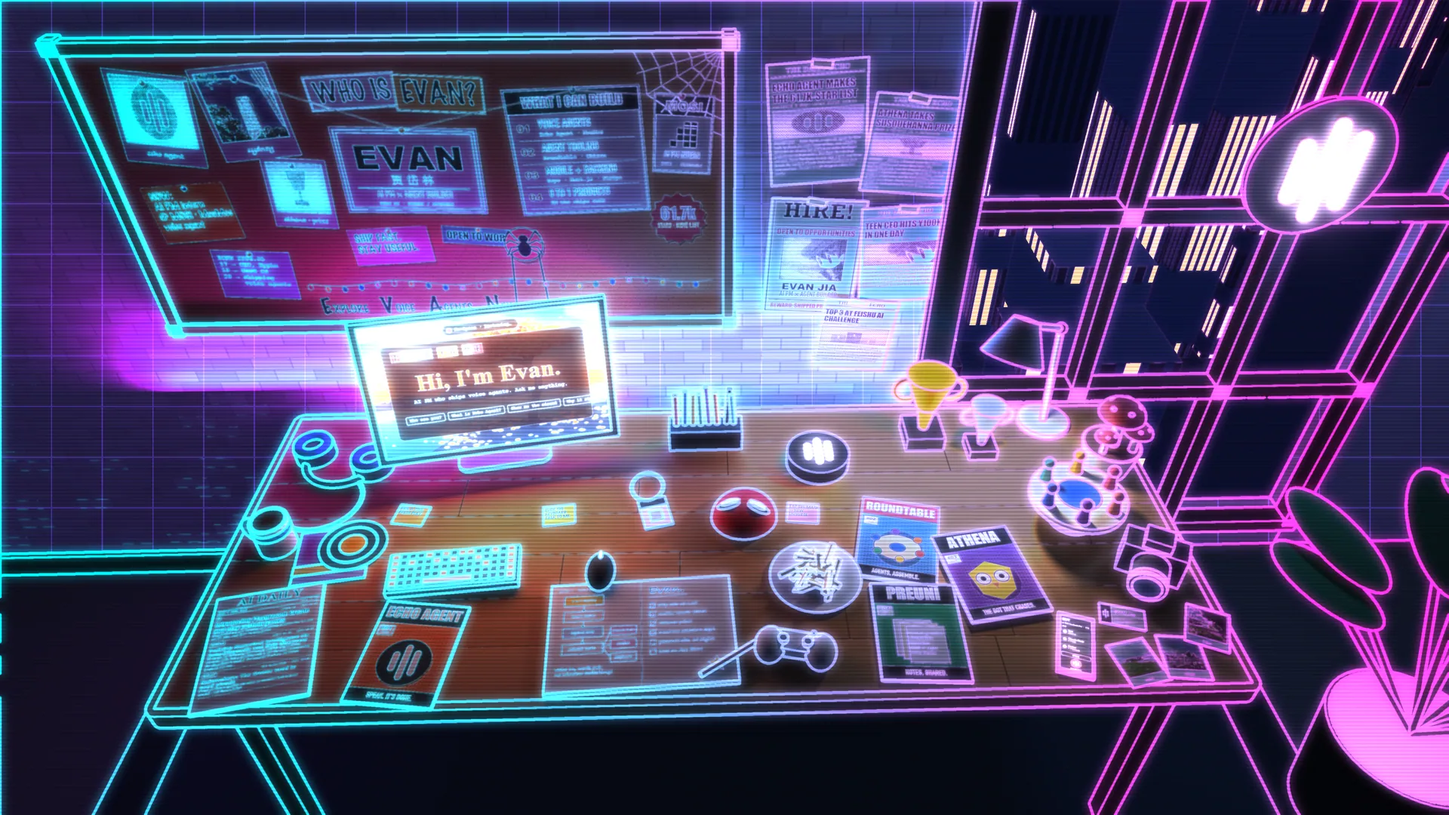
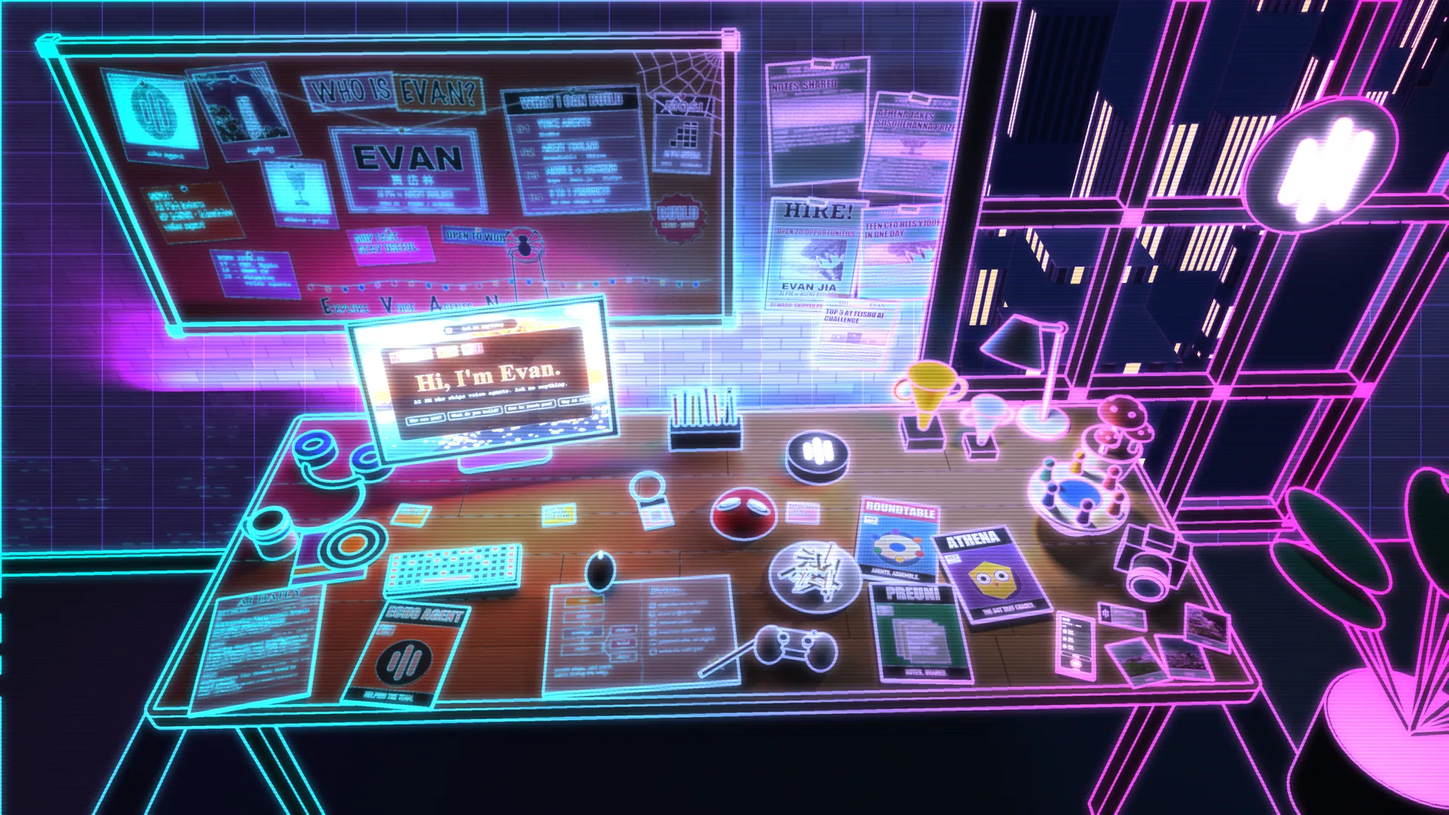
Simplify Echo Agent participation across the site

diff --git a/002/site/js/content.js b/002/site/js/content.js
@@ -25,7 +25,7 @@ export const HOTS = {
   keyboard: { action: 'chat' },
   mask: { action: 'style' },
   'zine-echo': { panel: 'echo' },
-  phone: { panel: 'echoMobile' },
+  phone: { panel: 'echo' },
   'zine-roundtable': { panel: 'roundtable' },
   roundtable: { panel: 'roundtable' },
   'zine-athena': { panel: 'athena' },
@@ -50,8 +50,8 @@ export const LABELS = {
   monitor: { zh: '跟我聊聊', en: 'Talk to me' },
   keyboard: { zh: '点键盘，跟我聊', en: 'Click the keyboard. Talk to me.' },
   mask: { zh: '换一个宇宙', en: 'Switch universe' },
-  'zine-echo': { zh: '回声 echo agent', en: 'Echo Agent' },
-  phone: { zh: '回声手机端', en: 'Echo on your phone' },
+  'zine-echo': { zh: '回声 Echo Agent', en: 'Echo Agent' },
+  phone: { zh: 'Echo Agent · 团队协作', en: 'Echo Agent · team collaboration' },
   'zine-roundtable': { zh: 'Roundtable', en: 'Roundtable' },
   roundtable: { zh: 'Roundtable 小圆桌', en: 'The round table' },
   'zine-athena': { zh: 'Athena', en: 'Athena' },
@@ -80,12 +80,12 @@ export const PANELS = {
     body: L(
       [
         '我是贾岱林，英文名 Evan，20 岁，在悉尼的新南威尔士大学（UNSW）读计算机科学。上大学之前，我在北京带过一家 7 个人的 Web3 公司，核心产品做到过单日营业额 10 万元以上。',
-        '现在我主要做语音 Agent。白天在上海模思智能做 AI 产品经理实习，负责 MosMos 的语音 Agent：产品经理的活干完，我会自己把代码写完、推上线。业余时间带 4 个人做回声 echo agent：在 Mac 上按一下快捷键说句话，它就把事情交给 Claude Code 和 Codex 去办。',
+        '现在我主要做语音 Agent。白天在上海模思智能做 AI 产品经理实习，负责 MosMos 的语音 Agent：产品经理的活干完，我会自己把代码写完、推上线。另外也帮助团队制作 Echo Agent。',
         '我喜欢从头到尾自己负责一件事：设计、前端、后端、部署、推广。野心这件事上我比较直白：想做一个真正有用的东西，宁可瞄得太高打偏，也不想瞄低了打中。',
       ],
       [
         'I’m Evan Jia (贾岱林), 20, studying Computer Science at UNSW in Sydney. Before university I ran a seven-person Web3 company in Beijing and took its core product past ¥100K in single-day revenue.',
-        'These days I mostly build voice agents. By day I’m an AI product manager intern at MOSI in Shanghai, owning the voice agent in MosMos: once the PM work is done, I write the code and ship it myself. On the side I lead a team of four on Echo Agent: press a hotkey on your Mac, say it, and it hands the work to Claude Code and Codex.',
+        'These days I mostly build voice agents. By day I’m an AI product manager intern at MOSI in Shanghai, owning the voice agent in MosMos: once the PM work is done, I write the code and ship it myself. I also help the team build Echo Agent.',
         'I like owning a thing end to end: design, frontend, backend, deploy, launch. I’m ambitious in a fairly plain way: I want to build something that actually matters, and I’d rather aim too high and miss than aim low and hit.',
       ],
     ),
@@ -101,8 +101,8 @@ export const PANELS = {
       {
         heading: L('时间线', 'Timeline'),
         items: L(
-          ['2023.7 – 2024.7　创立 Hypha，任 CEO，带 7 人团队', '2025.2　入读 UNSW 计算机科学', '2025.6 – 2026.5　PreUni：课程笔记分享站', '2026.6 – 7　Roundtable 开源，拿下飞书 AI 校园挑战赛 Agent 赛道 Top 3', '2026.7 – 8　Athena 获 Susquehanna Prize；Akeso 入围 ICON × Lyra 决赛', '2026.9 至今　模思智能 AI 产品经理实习', '2026.9 至今　回声 echo agent，入选 GitHub 61.7k★ 中国独立开发者项目列表'],
-          ['Jul 2023 – Jul 2024　Founded Hypha, CEO of a team of seven', 'Feb 2025　Started Computer Science at UNSW', 'Jun 2025 – May 2026　PreUni: course notes, shared', 'Jun – Jul 2026　Open-sourced Roundtable; Top 3 in the Agent track of the Feishu AI Campus Challenge', 'Jul – Aug 2026　Athena won the Susquehanna Prize; Akeso reached the ICON × Lyra final', 'Sep 2026 – now　AI PM intern at MOSI', 'Sep 2026 – now　Echo Agent, featured in the 61.7k★ Chinese indie developer list'],
+          ['2023.7 – 2024.7　创立 Hypha，任 CEO，带 7 人团队', '2025.2　入读 UNSW 计算机科学', '2025.6 – 2026.5　PreUni：课程笔记分享站', '2026.6 – 7　Roundtable 开源，拿下飞书 AI 校园挑战赛 Agent 赛道 Top 3', '2026.7 – 8　Athena 获 Susquehanna Prize；Akeso 入围 ICON × Lyra 决赛', '2026.9 至今　模思智能 AI 产品经理实习', '2026.9 至今　Echo Agent：帮助团队制作'],
+          ['Jul 2023 – Jul 2024　Founded Hypha, CEO of a team of seven', 'Feb 2025　Started Computer Science at UNSW', 'Jun 2025 – May 2026　PreUni: course notes, shared', 'Jun – Jul 2026　Open-sourced Roundtable; Top 3 in the Agent track of the Feishu AI Campus Challenge', 'Jul – Aug 2026　Athena won the Susquehanna Prize; Akeso reached the ICON × Lyra final', 'Sep 2026 – now　AI PM intern at MOSI', 'Sep 2026 – now　Echo Agent: helping the team build the project'],
         ),
       },
       {
@@ -159,58 +159,14 @@ export const PANELS = {
     links: [{ label: L('公司官网', 'Company site'), href: 'https://home.mosi.cn/' }],
   },
   echo: {
-    kicker: L('独立产品 · 2026.9 – 至今', 'INDIE PRODUCT · SEP 2026 – NOW'),
-    title: L('回声 echo agent', 'Echo Agent'),
-    sub: L('Mac 上的语音 AI Agent · 发起人，带 4 人团队', 'A voice AI agent for Mac · founder, 4-person team'),
-    image: { src: L('assets/projects/echo-cover-zh.webp', 'assets/projects/echo-cover-en.webp'), alt: L('回声 echo agent 宣传封面', 'Echo Agent cover') },
-    body: L(
-      ['在任何应用里按 Fn+Space 说一句话，回声直接回答，或者动手去做：把编程任务派给本机的 Claude Code 和 Codex，截下当前窗口看图回答，读写文件，操作日历、飞书、微信这些本机应用。', '顶部胶囊浮窗不抢焦点，关掉后任务在后台继续；语音在本机识别，录音不上传。我全权负责产品、架构和研发。'],
-      ['Press Fn+Space in any app and say it. Echo answers, or does the work: it hands coding tasks to Claude Code and Codex on your Mac, captures the window you are looking at, reads and writes files, and drives local apps like Calendar, Feishu and WeChat.', 'A capsule at the top of the screen that never steals focus; tasks keep running after you close it. Speech is recognised on-device and recordings never leave your Mac. I own product, architecture and engineering.'],
-    ),
-    bullets: L(
-      ['首个提交后 5 天被 GitHub 61.7k★「中国独立开发者项目列表」收录', '两周迭代到 v0.1.38'],
-      ['Featured in the 61.7k★ Chinese indie developer list 5 days after the first commit', 'v0.1.38 within two weeks'],
-    ),
-    sections: [
-      {
-        heading: L('macOS 客户端', 'macOS client'),
-        items: L(
-          ['Swift / SwiftUI；全局快捷键 + 浮窗状态机：待命 → 聆听 → 识别 → 执行', '本地流式语音识别，中文里夹英文术语也认得出', '应用层 → 领域层 → 系统接入层单向依赖，10 个模块各管一件事'],
-          ['Swift / SwiftUI; a global hotkey and an overlay state machine: idle → listening → recognising → running', 'On-device streaming speech recognition that copes with English terms inside Chinese', 'One-way dependencies from app to domain to system layers; ten modules, one job each'],
-        ),
-      },
-      {
-        heading: L('Agent 能力层', 'Agent tools'),
-        items: L(
-          ['运行时扩展注册 echo_* 工具，经 echoctl 执行；需要宿主权限的命令走本地 socket', '派发与续接 Claude Code / Codex 会话，几个任务可以同时跑，结果回到对话里', '窗口截图、定时任务、长期记忆（每轮注入系统提示）', '10+ 类本机应用操作：浏览器、音乐、飞书、微信、邮件、备忘录、日历等'],
-          ['A runtime extension registers echo_* tools that run through echoctl; commands needing host permissions go over a local socket', 'Dispatch and resume Claude Code / Codex sessions; several tasks run in parallel and results come back into the chat', 'Window capture, scheduled tasks, long-term memory injected into every turn', '10+ kinds of local app control: browser, music, Feishu, WeChat, mail, notes, calendar and more'],
-        ),
-      },
-      {
-        heading: L('后台与增长', 'Backend and growth'),
-        items: L(
-          ['Next.js + Postgres：邮箱 / 手机 / Google / 微信登录、每日额度、模型转发与成本记账', 'Stripe 月卡（银行卡、微信、支付宝）与兑换码', '匿名埋点与流程漏斗、崩溃报告归组、三级角色的管理后台', '中英双语官网；用 Remotion 程序化渲染宣传片和 3 支剧情短片'],
-          ['Next.js + Postgres: email / phone / Google / WeChat sign-in, daily quotas, model relay with cost accounting', 'Stripe passes (cards, WeChat Pay, Alipay) and promo codes', 'Anonymous analytics and funnels, grouped crash reports, an admin console with three roles', 'A bilingual site; promo film and three story shorts rendered programmatically with Remotion'],
-        ),
-      },
-    ],
-    tags: ['Swift', 'SwiftUI', 'On-device ASR', 'Next.js', 'Postgres', 'Stripe'],
-    links: [{ label: L('echoagent.dev', 'echoagent.dev'), href: 'https://echoagent.dev/zh/' }, { label: L('收录列表', 'The 61.7k★ list'), href: 'https://github.com/1c7/chinese-independent-developer' }, { label: L('手机端', 'Mobile remote'), action: 'echoMobile' }],
-  },
-  echoMobile: {
-    kicker: L('回声 · 手机端', 'ECHO · MOBILE'),
-    title: L('手机上的回声', 'Echo on your phone'),
-    sub: L('Mac 上回声的遥控器 · iOS + Android', 'A remote for Echo on your Mac · iOS + Android'),
-    body: L(
-      ['人不在电脑前，也能在手机上管理 session：看 Claude Code 和 Codex 在做什么、派新任务、续接、停止、审批权限、按住说话。'],
-      ['Away from your desk, manage sessions from your phone: watch Claude Code and Codex, dispatch tasks, resume, stop, approve permissions, hold to talk.'],
-    ),
-    bullets: L(
-      ['Expo / React Native，一套代码出 iOS 和 Android', '中继用 Cloudflare Worker + Durable Object，只转发端到端加密的密文', 'Mac 睡着时命令排队，醒来按顺序执行'],
-      ['Expo / React Native, one codebase for iOS and Android', 'Relay on Cloudflare Workers + Durable Objects that only forwards end-to-end encrypted payloads', 'Commands queue while the Mac sleeps and run in order when it wakes'],
-    ),
-    tags: ['Expo', 'React Native', 'Cloudflare Workers', 'E2E encryption'],
-    links: [{ label: L('手机版页面', 'Mobile page'), href: 'https://echoagent.dev/zh/mobile/' }],
+    kicker: L('团队协作', 'TEAM COLLABORATION'),
+    title: L('回声 Echo Agent', 'Echo Agent'),
+    sub: L('帮助团队制作', 'Helped the team build the project'),
+    image: { src: L('assets/projects/echo-cover-zh.webp', 'assets/projects/echo-cover-en.webp'), alt: L('Echo Agent 项目封面', 'Echo Agent project cover') },
+    body: L([], []),
+    bullets: L([], []),
+    tags: [],
+    links: [{ label: L('项目网站', 'Project site'), href: 'https://echoagent.dev/zh/' }],
   },
   roundtable: {
     kicker: L('开源 · 2026.6 – 2026.7', 'OPEN SOURCE · JUN – JUL 2026'),
@@ -256,13 +212,13 @@ export const PANELS = {
     links: [{ label: L('Chiron Prompt', 'Chiron Prompt'), href: 'https://github.com/EdwinjJ1/chiron-prompt' }, { label: L('Roundtable', 'Roundtable'), href: 'https://github.com/EdwinjJ1/roundtable' }],
   },
   press: {
-    kicker: L('THE DAILY ECHO', 'THE DAILY ECHO'),
+    kicker: L('THE DAILY EVAN', 'THE DAILY EVAN'),
     title: L('剪报墙', 'Press clippings'),
     sub: L('墙上这几张，写的都是真事', 'Everything pinned here actually happened'),
     body: L([], []),
     bullets: L(
-      ['ECHO AGENT MAKES THE 61.7K-STAR LIST：首个提交后 5 天被「中国独立开发者项目列表」收录', 'ATHENA TAKES SUSQUEHANNA PRIZE：UNSW × Mistral AI × Atlassian Hackathon', 'TEEN CEO HITS ¥100K IN ONE DAY：17 岁创立 Hypha，7 人团队', 'TOP 3 AT FEISHU AI CHALLENGE：Roundtable，Agent 赛道', 'HIRE!：AI 产品经理 × Agent 开发者，Open to opportunities'],
-      ['ECHO AGENT MAKES THE 61.7K-STAR LIST: featured 5 days after the first commit', 'ATHENA TAKES SUSQUEHANNA PRIZE: UNSW × Mistral AI × Atlassian Hackathon', 'TEEN CEO HITS ¥100K IN ONE DAY: founded Hypha at 17 with a team of seven', 'TOP 3 AT FEISHU AI CHALLENGE: Roundtable, Agent track', 'HIRE!: AI PM × agent builder, open to opportunities'],
+      ['ATHENA TAKES SUSQUEHANNA PRIZE：UNSW × Mistral AI × Atlassian Hackathon', 'TEEN CEO HITS ¥100K IN ONE DAY：17 岁创立 Hypha，7 人团队', 'TOP 3 AT FEISHU AI CHALLENGE：Roundtable，Agent 赛道', 'HIRE!：AI 产品经理 × Agent 开发者，Open to opportunities'],
+      ['ATHENA TAKES SUSQUEHANNA PRIZE: UNSW × Mistral AI × Atlassian Hackathon', 'TEEN CEO HITS ¥100K IN ONE DAY: founded Hypha at 17 with a team of seven', 'TOP 3 AT FEISHU AI CHALLENGE: Roundtable, Agent track', 'HIRE!: AI PM × agent builder, open to opportunities'],
     ),
     tags: [],
     links: [{ label: L('联系我', 'Get in touch'), action: 'contact' }],
@@ -304,7 +260,7 @@ export const PANELS = {
     body: L(['AI 产品经理、Agent 产品与工程方向的机会都欢迎聊。'], ['Happy to talk about AI product, agent product and engineering roles.']),
     bullets: L([], []),
     tags: [],
-    links: [{ label: L('jiaedwin0605@gmail.com', 'jiaedwin0605@gmail.com'), href: 'mailto:jiaedwin0605@gmail.com' }, { label: L('GitHub @EdwinjJ1', 'GitHub @EdwinjJ1'), href: 'https://github.com/EdwinjJ1' }, { label: L('echoagent.dev', 'echoagent.dev'), href: 'https://echoagent.dev/zh/' }],
+    links: [{ label: L('jiaedwin0605@gmail.com', 'jiaedwin0605@gmail.com'), href: 'mailto:jiaedwin0605@gmail.com' }, { label: L('GitHub @EdwinjJ1', 'GitHub @EdwinjJ1'), href: 'https://github.com/EdwinjJ1' }],
   },
   fries: {
     kicker: L('彩蛋', 'EASTER EGG'),
@@ -318,7 +274,7 @@ export const PANELS = {
 };
 
 // 阅读模式的顺序
-export const INTRO_ORDER = ['about', 'mosi', 'echo', 'echoMobile', 'roundtable', 'athena', 'awards', 'preuni', 'hypha', 'projects', 'blog', 'photos', 'news', 'friends', 'contact'];
+export const INTRO_ORDER = ['about', 'mosi', 'echo', 'roundtable', 'athena', 'awards', 'preuni', 'hypha', 'projects', 'blog', 'photos', 'news', 'friends', 'contact'];
 
 // 这几个面板的正文来自 assets/data/<file>.json（从上一代网站导入，见 pipeline/import_legacy.mjs）
 export const DYNAMIC = {
@@ -347,10 +303,10 @@ export const ALBUMS = [
 export const CHAT = {
   api: 'https://evanlin-api.jiaedwin0605.workers.dev',
   hello: L('我是 Evan 的 AI 分身。直接问，或者点下面的问题。', 'I’m Evan’s AI stand-in. Ask anything, or pick a question below.'),
-  fallback: L('这个我没准备台词。试试问：回声是什么、实习做了什么、怎么联系你。', 'I don’t have a line for that. Try: what is Echo, what did you do at MOSI, how to reach you.'),
+  fallback: L('这个我没准备台词。试试问：你是谁、实习做了什么、怎么联系你。', 'I don’t have a line for that. Try: who are you, what did you do at MOSI, how to reach you.'),
   topics: [
     { id: 'who', keys: ['你是谁', '介绍', 'who', 'about', 'yourself', 'evan'], q: L('你是谁？', 'Who are you?'), a: L('贾岱林，Evan。20 岁，UNSW 计算机在读，现在在上海模思智能做 AI 产品经理实习。我做语音 Agent：定方向，也自己写代码上线。', 'Evan Jia, 20. CS at UNSW, currently an AI PM intern at MOSI in Shanghai. I build voice agents: I set direction and ship the code myself.') },
-    { id: 'echo', keys: ['回声', 'echo', 'agent', '语音'], q: L('回声是什么？', 'What is Echo Agent?'), a: L('跑在 Mac 上的语音 AI Agent。任何应用里按 Fn+Space 说一句话，它直接回答，或者把活派给本机的 Claude Code 和 Codex。首个提交后 5 天被 GitHub 61.7k★ 的中国独立开发者项目列表收录。', 'A voice AI agent for Mac. Press Fn+Space anywhere and say it; Echo answers or hands the work to Claude Code and Codex on your machine. It was featured in a 61.7k★ GitHub list 5 days after the first commit.'), panel: 'echo' },
+    { id: 'echo', keys: ['回声', 'echo'], q: L('参与过 Echo Agent 吗？', 'Did you contribute to Echo Agent?'), a: L('我帮助团队制作 Echo Agent。', 'I helped the team build Echo Agent.'), panel: 'echo' },
     { id: 'mosi', keys: ['实习', '模思', 'mosi', 'mosmos', 'intern', 'work'], q: L('实习做了什么？', 'What did you do at MOSI?'), a: L('主导 MosMos 语音 Agent 的选中提问、多轮对话和工具调用，并且自己把代码写完上线；另外做了会议转写的豆包兜底策略，参与了 MOSS-VL 和 Realtime 的 API 文档。', 'I owned selection Q&A, multi-turn and tool calling for the MosMos voice agent and shipped the code myself, built the Doubao fallback for meeting transcription, and contributed to the MOSS-VL and Realtime API docs.'), panel: 'mosi' },
     { id: 'styles', keys: ['风格', '宇宙', 'style', 'universe', 'blender', '怎么做'], q: L('为什么有十种画风？', 'Why ten styles?'), a: L('同一张桌子在 Blender 里建模，一个机位渲出底色、光影和轮廓，再合成十种印刷风格。点桌上的面具，或者按空格，就换一个宇宙。', 'One desk modelled in Blender, one camera, rendered into colour, light and outline passes, then composited into ten print styles. Click the mask on the desk, or press Space, to jump universes.') },
     { id: 'contact', keys: ['联系', '邮箱', 'email', 'contact', 'hire', '招'], q: L('怎么联系你？', 'How do I reach you?'), a: L('jiaedwin0605@gmail.com。AI 产品、Agent 方向的机会都欢迎聊。', 'jiaedwin0605@gmail.com. Happy to talk about AI product and agent roles.'), panel: 'contact' },

diff --git a/002/workers/api/src/index.js b/002/workers/api/src/index.js
@@ -15,7 +15,7 @@ About you:
 - 20 years old, studying Computer Science at the University of New South Wales (UNSW, 新南威尔士大学). The campus is in Sydney, but it is NOT the University of Sydney (悉尼大学), which is a different school: in Chinese always say 新南威尔士大学 or UNSW, never 悉尼大学.
 - AI product manager who also writes and ships the code.
 - Now: AI PM intern at MOSI (上海模思智能) on MosMos, an AI voice assistant. You owned "ask about selected text + multi-turn + tool calling" for its voice agent and shipped the code yourself; you also built the Doubao fallback for meeting transcription and contributed to the MOSS-VL / Realtime API docs.
-- Echo Agent (回声, echoagent.dev): a voice AI agent for Mac that you started and lead with a team of four. Press Fn+Space in any app, say it, and Echo answers or hands the work to Claude Code and Codex on the machine. It has a phone remote and a full backend, and was featured in the 61.7k-star Chinese indie developer list on GitHub five days after the first commit.
+- Echo Agent (回声): you helped the team build it. This is the only public detail about your involvement. Mention it only if asked directly; do not infer a founder or leadership role or add product, technical, team-size or promotional details.
 - Roundtable: an open-source visual workbench for multi-agent work (MIT); it placed Top 3 in the Agent track of the ByteDance Feishu AI Campus Challenge. Athena: a Discord agent plus live knowledge graph that won the Susquehanna Prize at the UNSW × Mistral AI × Atlassian Hackathon. Chiron Prompt: an open-source prompt enhancer for the terminal.
 - PreUni (preuni.xyz): your university course notes, shared. Hypha: you founded it at 17 and led a team of seven; its core product passed ¥100K in single-day revenue.
 - Also a photographer (street, portrait, architecture, wildlife) and you write about AI and agents on your blog. This site was modelled in Blender and rendered in ten styles.

diff --git a/002/site/index.html b/002/site/index.html
@@ -4,17 +4,17 @@
   <meta charset="utf-8">
   <meta name="viewport" content="width=device-width, initial-scale=1, viewport-fit=cover">
   <title>Evan Jia 贾岱林 · AI PM × Agent Builder</title>
-  <meta name="description" content="贾岱林 Evan：AI 产品经理 × 全栈 Agent 开发者。回声 echo agent 作者。一张桌子，十个宇宙。">
+  <meta name="description" content="贾岱林 Evan：AI 产品经理 × 全栈 Agent 开发者。一张桌子，十个宇宙。">
   <meta property="og:title" content="Evan Jia · One desk, ten universes">
   <meta property="og:description" content="AI PM who ships voice agents. Click the mask to switch universe.">
-  <meta property="og:image" content="assets/styles/comic@1x.webp">
+  <meta property="og:image" content="assets/styles/comic@1x.webp?v=20261010-2">
   <meta name="theme-color" content="#14121c">
   <link rel="preconnect" href="https://fonts.googleapis.com">
   <link rel="preconnect" href="https://fonts.gstatic.com" crossorigin>
   <link href="https://fonts.googleapis.com/css2?family=Bangers&family=Comic+Neue:ital,wght@0,400;0,700;1,700&display=swap" rel="stylesheet">
   <link rel="stylesheet" href="css/main.css">
   <link rel="stylesheet" href="css/news.css">
-  <link rel="preload" as="image" href="assets/styles/comic@1x.webp">
+  <link rel="preload" as="image" href="assets/styles/comic@1x.webp?v=20261010-2">
 </head>
 <body>
   <div id="loader" role="status">
@@ -63,6 +63,6 @@
     </div>
   </noscript>
 
-  <script type="module" src="js/app.js"></script>
+  <script type="module" src="js/app.js?v=20261010-2"></script>
 </body>
 </html>

diff --git a/002/site/js/app.js b/002/site/js/app.js
@@ -1,11 +1,11 @@
 // 入口：状态、交互、面板（静态 + 从旧站导入的内容）、对话、阅读模式。画面交给 stage.js，坐标换算在 geometry.js。
 import { groupAlbums } from './albums.js';
 import { streamChat } from './chat.js';
-import { ALBUMS, CHAT, DYNAMIC, HOTS, INTRO_ORDER, LABELS, PANELS, STYLES, UI, matchTopic } from './content.js';
+import { ALBUMS, CHAT, DYNAMIC, HOTS, INTRO_ORDER, LABELS, PANELS, STYLES, UI, matchTopic } from './content.js?v=20261010-2';
 import * as G from './geometry.js';
 import { coverUrl, createPlayer, fmtTime } from './music.js';
 import { renderNews } from './news.js';
-import { createStage, hexToRgb } from './stage.js';
+import { createStage, hexToRgb } from './stage.js?v=20261010-2';
 import { CENTER as WEB_CENTER, earthOf, hostOf, webLayout } from './web.js';
 
 const $ = (sel, root = document) => root.querySelector(sel);

diff --git a/002/site/js/stage.js b/002/site/js/stage.js
@@ -120,7 +120,7 @@ export function createStage(canvas, img, assetBase = 'assets/') {
     const key = hi ? 'hi' : 'lo';
     if (e[key]) return Promise.resolve();
     if (!e.pending[key]) {
-      e.pending[key] = loadImage(`${assetBase}styles/${id}${hi ? '' : '@1x'}.webp`).then((im) => {
+      e.pending[key] = loadImage(`${assetBase}styles/${id}${hi ? '' : '@1x'}.webp?v=20261010-2`).then((im) => {
         if (Math.max(im.width, im.height) > maxTex) return;   // 设备放不下全尺寸，就一直用半尺寸
         e[key] = texture(im);
       });

diff --git a/002/pipeline/textures.py b/002/pipeline/textures.py
@@ -235,7 +235,7 @@ def board(w=2400, h=1176):
     wd = ImageDraw.Draw(wc)
     wd.rectangle((8, 8, 511, 96), fill=INK)
     wd.text((260, 52), "WHAT I CAN BUILD", font=font("impact", 54), fill=PAPER, anchor="mm")
-    for i, (a, b) in enumerate((("VOICE AGENTS", "Echo Agent · MosMos"), ("AGENT TOOLING", "Roundtable · Chiron"), ("MOBILE + BACKEND", "Expo · Next.js · Stripe"), ("0 TO 1 PRODUCTS", "PM who ships code"))):
+    for i, (a, b) in enumerate((("VOICE AGENTS", "MosMos"), ("AGENT TOOLING", "Roundtable · Chiron"), ("MOBILE + BACKEND", "Expo · Next.js · Stripe"), ("0 TO 1 PRODUCTS", "PM who ships code"))):
         y = 122 + i * 96
         wd.text((34, y), f"0{i + 1}", font=font("black", 40), fill=RED)
         wd.text((118, y - 2), a, font=font("din", 46), fill=INK)
@@ -257,8 +257,8 @@ def board(w=2400, h=1176):
     pts = [(cx + math.cos(i * math.pi / 14) * (r if i % 2 else r * 0.86), cy + math.sin(i * math.pi / 14) * (r if i % 2 else r * 0.86)) for i in range(28)]
     d.polygon([(x + 6, y + 9) for x, y in pts], fill=(0, 0, 0, 80))
     d.polygon(pts, fill=RED, outline=INK)
-    d.text((cx, cy - 26), "61.7k", font=font("impact", 74), fill=PAPER, anchor="mm")
-    d.text((cx, cy + 34), "STARS · INDIE LIST", font=font("din", 30), fill=YELLOW, anchor="mm")
+    d.text((cx, cy - 26), "BUILD", font=font("impact", 74), fill=PAPER, anchor="mm")
+    d.text((cx, cy + 34), "LEARN · SHARE", font=font("din", 30), fill=YELLOW, anchor="mm")
 
     # 红线把照片、名牌、能力卡连起来
     path = [(250, 110), (590, 96), (1160, 300), (1830, 152), (2240, 180)]
@@ -304,7 +304,7 @@ def board(w=2400, h=1176):
 
 
 # ───────────────────────── 剪报 / 海报 ─────────────────────────
-def clipping(headline, sub, kind, seed, text, w=640, h=820, masthead="THE DAILY ECHO", image=None):
+def clipping(headline, sub, kind, seed, text, w=640, h=820, masthead="THE DAILY EVAN", image=None):
     """一张剪报：报头、大标题、导语、配图，下面是一段真实的报道正文。"""
     im = paper(w, h, NEWS, grain=9, seed=seed)
     d = ImageDraw.Draw(im)
@@ -409,23 +409,23 @@ def notebook(w=1400, h=980):
             wobble(a, b)
         d.text((x + bw / 2, y + bh / 2), label, font=fit(d, label, "hand", bw - 20, 40), fill=INK, anchor="mm")
 
-    d.text((60, 30), "echo — how it works", font=font("hand", 46), fill=RED)
-    flow = [("Fn+Space", YELLOW), ("local ASR", None), ("agent loop", (196, 228, 255)), ("echoctl tools", None)]
+    d.text((60, 30), "notes — how I build", font=font("hand", 46), fill=RED)
+    flow = [("idea", YELLOW), ("sketch", None), ("prototype", (196, 228, 255)), ("review", None)]
     for i, (lb, col) in enumerate(flow):
         y = 120 + i * 150
         sketch_box(110, y, 300, 92, lb, col)
         if i < 3:
             wobble((260, y + 96), (260, y + 146), 4)
             d.polygon([(248, y + 134), (272, y + 134), (260, y + 152)], fill=INK)
-    for j, lb in enumerate(("Claude Code", "Codex", "capture")):
+    for j, lb in enumerate(("design", "build", "share")):
         sketch_box(470, 430 + j * 120, 190, 80, lb, PINK if j < 2 else None)
         wobble((412, 615), (468, 470 + j * 120), 3)
-    d.text((70, 760), "voice in, work out.\nno window switching!", font=font("hand", 44), fill=INK)
+    d.text((70, 760), "small steps, real work.\nlearn along the way.", font=font("hand", 44), fill=INK)
 
     x0 = w / 2 + 60
     d.text((x0, 40), "Evan.", font=font("hand", 110), fill=INK)
     d.line((x0, 168, x0 + 300, 160), fill=RED, width=6)
-    for i, (txt, done) in enumerate((("ship echo v0.1.38", True), ("mobile remote (E2E)", True), ("Athena: prize!", True), ("MosMos: selection Q&A", True), ("personal site, 10 styles", False), ("iOS on App Store", False))):
+    for i, (txt, done) in enumerate((("organise course notes", True), ("share project notes", True), ("Athena: prize!", True), ("MosMos: selection Q&A", True), ("personal site, 10 styles", False), ("write the next post", False))):
         y = 230 + i * 86
         d.rectangle((x0, y, x0 + 46, y + 46), outline=INK, width=5)
         if done:
@@ -449,26 +449,26 @@ def screen(w=1600, h=1000):
     d.text((w / 2, 440), "Hi, I'm Evan.", font=font("serif", 170), fill=(255, 122, 61), anchor="mm")
     d.text((w / 2, 580), "AI PM who ships voice agents. Ask me anything.", font=font("mono", 38), fill=(235, 235, 240), anchor="mm")
     cx = 190
-    for chip in ("Who are you?", "What is Echo Agent?", "Show me the résumé", "Why 10 styles?"):
+    for chip in ("Who are you?", "What do you build?", "How to reach you?", "Why 10 styles?"):
         tw = d.textlength(chip, font=font("mono", 30)) + 48
         d.rounded_rectangle((cx, 690, cx + tw, 750), radius=10, outline=(255, 255, 255, 150), width=3)
         d.text((cx + tw / 2, 720), chip, font=font("mono", 30), fill=PAPER, anchor="mm")
         cx += tw + 22
-    d.rounded_rectangle((w / 2 - 250, 44, w / 2 + 250, 116), radius=36, fill=(20, 20, 24, 240))  # 回声胶囊
+    d.rounded_rectangle((w / 2 - 250, 44, w / 2 + 250, 116), radius=36, fill=(20, 20, 24, 240))  # 语音状态条
     d.ellipse((w / 2 - 226, 62, w / 2 - 190, 98), fill=RED)
-    d.text((w / 2 + 16, 80), "Fn+Space · listening…", font=font("mono", 30), fill=PAPER, anchor="mm")
+    d.text((w / 2 + 16, 80), "Ask me anything", font=font("mono", 30), fill=PAPER, anchor="mm")
     return im
 
 
 def phone(w=470, h=1010):
-    """回声手机端的首页，文案和官网手机版页面一致。"""
+    """通用协作看板。"""
     im = Image.new("RGB", (w, h), (18, 18, 22))
     d = ImageDraw.Draw(im)
-    d.text((34, 56), "回声", font=font("cjk", 56), fill=PAPER)
+    d.text((34, 56), "协作", font=font("cjk", 56), fill=PAPER)
     d.ellipse((36, 150, 56, 170), fill=GREEN)
-    d.text((70, 143), "你的 MacBook Pro · 在线", font=font("cjk", 28), fill=(190, 192, 200))
-    d.text((34, 204), "会话", font=font("cjk", 30), fill=(150, 152, 160))
-    for i, (a, b, col) in enumerate((("回声", "正在回答…", PAPER), ("Claude Code", "1 个在跑", ORANGE), ("Codex", "1 个等你批准", YELLOW))):
+    d.text((70, 143), "团队项目 · 进行中", font=font("cjk", 28), fill=(190, 192, 200))
+    d.text((34, 204), "进展", font=font("cjk", 30), fill=(150, 152, 160))
+    for i, (a, b, col) in enumerate((("协作", "整理中…", PAPER), ("设计", "进行中", ORANGE), ("开发", "待同步", YELLOW))):
         y = 256 + i * 142
         d.rounded_rectangle((26, y, w - 26, y + 122), radius=22, fill=(34, 34, 40))
         d.ellipse((48, y + 35, 100, y + 87), fill=col)
@@ -480,7 +480,7 @@ def phone(w=470, h=1010):
     for i, k in enumerate((0.4, 0.75, 0.5)):
         bx = w / 2 + (i - 1) * 34
         d.rounded_rectangle((bx - 10, h - 140 - 56 * k, bx + 10, h - 140 + 56 * k), radius=10, fill=PAPER)
-    d.text((w / 2, h - 34), "按住跟回声说", font=font("cjk", 26), fill=(170, 172, 180), anchor="mm")
+    d.text((w / 2, h - 34), "一起完成", font=font("cjk", 26), fill=(170, 172, 180), anchor="mm")
     return im
 
 
@@ -498,7 +498,7 @@ def small_papers(out):
     d.text((216, 150), "贾岱林 · AI PM × Agent Builder", font=font("cjk", 30), fill=INK)
     d.text((216, 236), "jiaedwin0605@gmail.com", font=font("mono", 28), fill=RED)
     d.text((216, 282), "github.com/EdwinjJ1", font=font("mono", 28), fill=INK)
-    d.text((216, 328), "echoagent.dev", font=font("mono", 28), fill=INK)
+    d.text((216, 328), "evanlin.site", font=font("mono", 28), fill=INK)
     c.save(out / "bizcard.png")
     for name, kind, caption, seed, pid in (("a", "city", "coast", 61, 1050), ("b", "person", "street", 62, 1001), ("c", "city", "trees", 63, 905)):
         polaroid(kind, caption, seed, pid=pid).save(out / f"polaroid_{name}.png")
@@ -588,8 +588,8 @@ def main(out):
     out.mkdir(parents=True, exist_ok=True)
     board().save(out / "board.png")
     clips = [
-        ("ECHO AGENT MAKES THE 61.7K-STAR LIST", "Featured 5 days after first commit", "bars", None,
-         "SHANGHAI — Echo Agent, a voice AI agent for Mac built by Evan Jia and a team of four, was added to GitHub's 61.7k-star list of Chinese indie developer projects on 29 September, five days after its first commit. Press Fn+Space in any app, say it, and Echo hands the work to Claude Code and Codex on your own machine. Version 0.1.38 shipped within two weeks."),
+        ("NOTES, SHARED", "PreUni · university course notes", "notes", None,
+         "SYDNEY — PreUni collects Evan Jia's university computer science course notes in one place. The bilingual site organises the material with interactive visualisations and makes it available to fellow students."),
         ("ATHENA TAKES SUSQUEHANNA PRIZE", "UNSW × Mistral AI × Atlassian", "cup", None,
          "SYDNEY — Athena, a Discord agent that chases project updates and writes them into a live knowledge graph, won the Susquehanna Prize at the UNSW × Mistral AI × Atlassian Hackathon. Jia led product architecture and final integration; the team built it in 24 hours. Every team's answers land in one graph, so contradictions between teams surface on their own."),
         ("TEEN CEO HITS ¥100K IN ONE DAY", "Hypha · 7-person team · age 17", "person", avatar(),
@@ -600,7 +600,7 @@ def main(out):
     for i, (hl, sub, kind, image, text) in enumerate(clips):
         clipping(hl, sub, kind, 20 + i, text, h=820 if i % 2 == 0 else 760, image=image).save(out / f"clip_{i}.png")
     poster().save(out / "poster.png")
-    zine("ECHO AGENT", 1, "SPEAK. IT'S DONE.", (255, 122, 61), INK, "bars").save(out / "zine_echo.png")
+    zine("ECHO AGENT", 1, "HELPING THE TEAM.", (255, 122, 61), INK, "bars").save(out / "zine_echo.png")
     zine("ROUNDTABLE", 2, "AGENTS, ASSEMBLE.", (88, 166, 255), RED, "table").save(out / "zine_roundtable.png")
     zine("ATHENA", 3, "THE BOT THAT CHASES.", (142, 78, 198), INK, "owl").save(out / "zine_athena.png")
     zine("PREUNI", 4, "NOTES, SHARED.", (48, 164, 108), INK, "notes").save(out / "zine_preuni.png")
